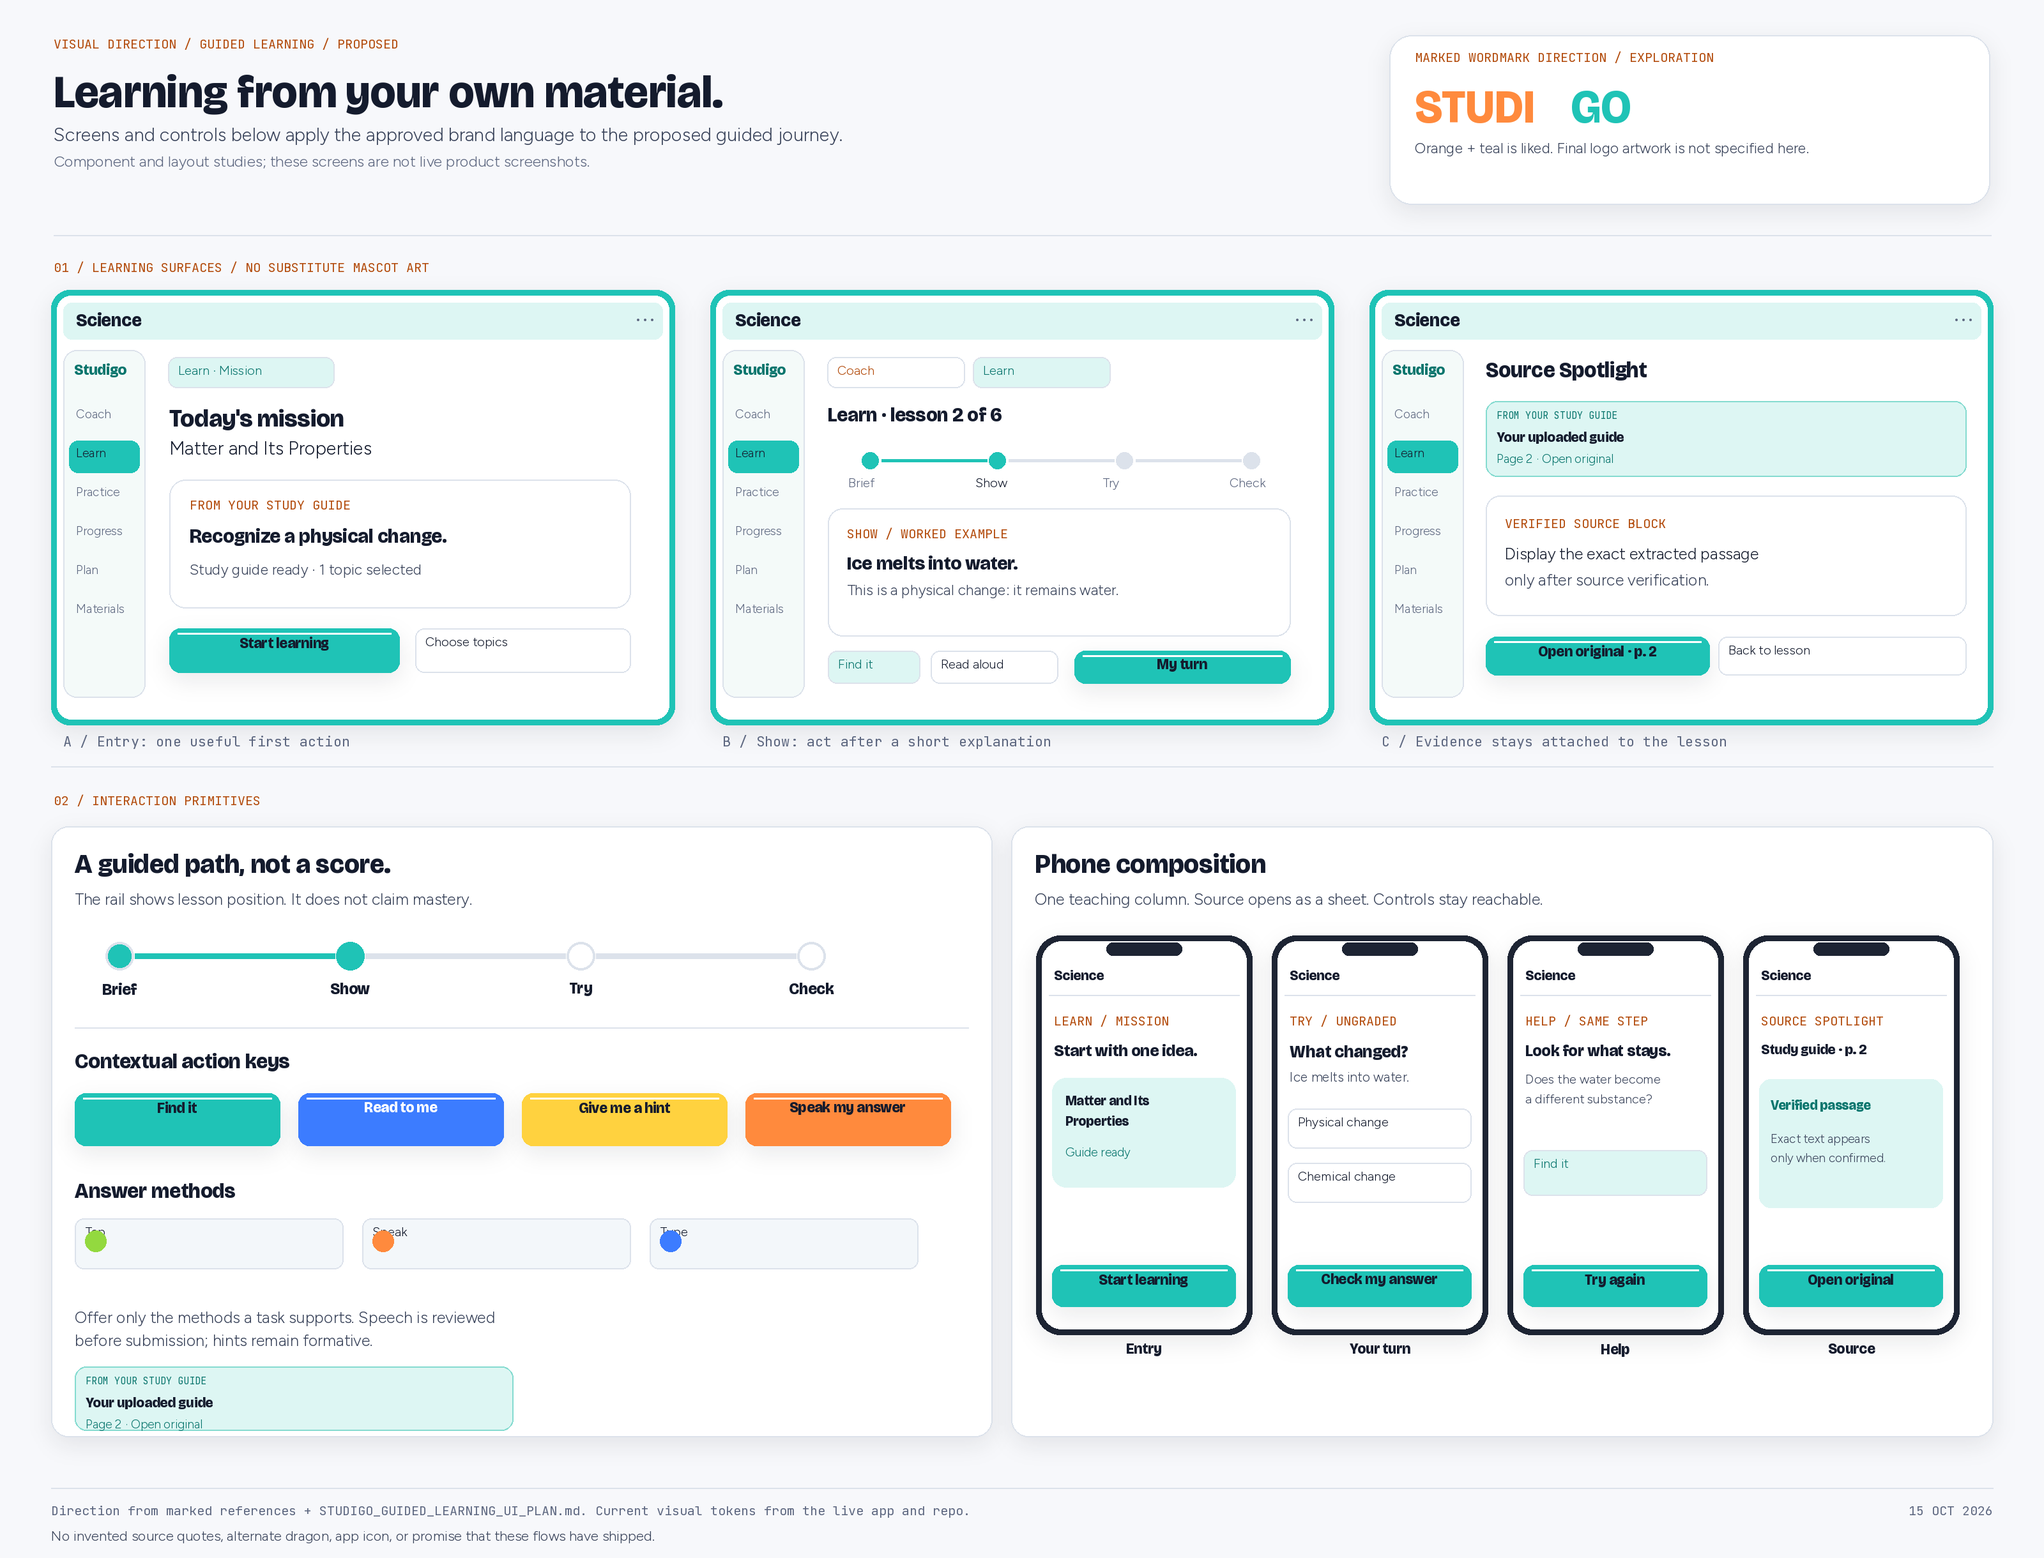
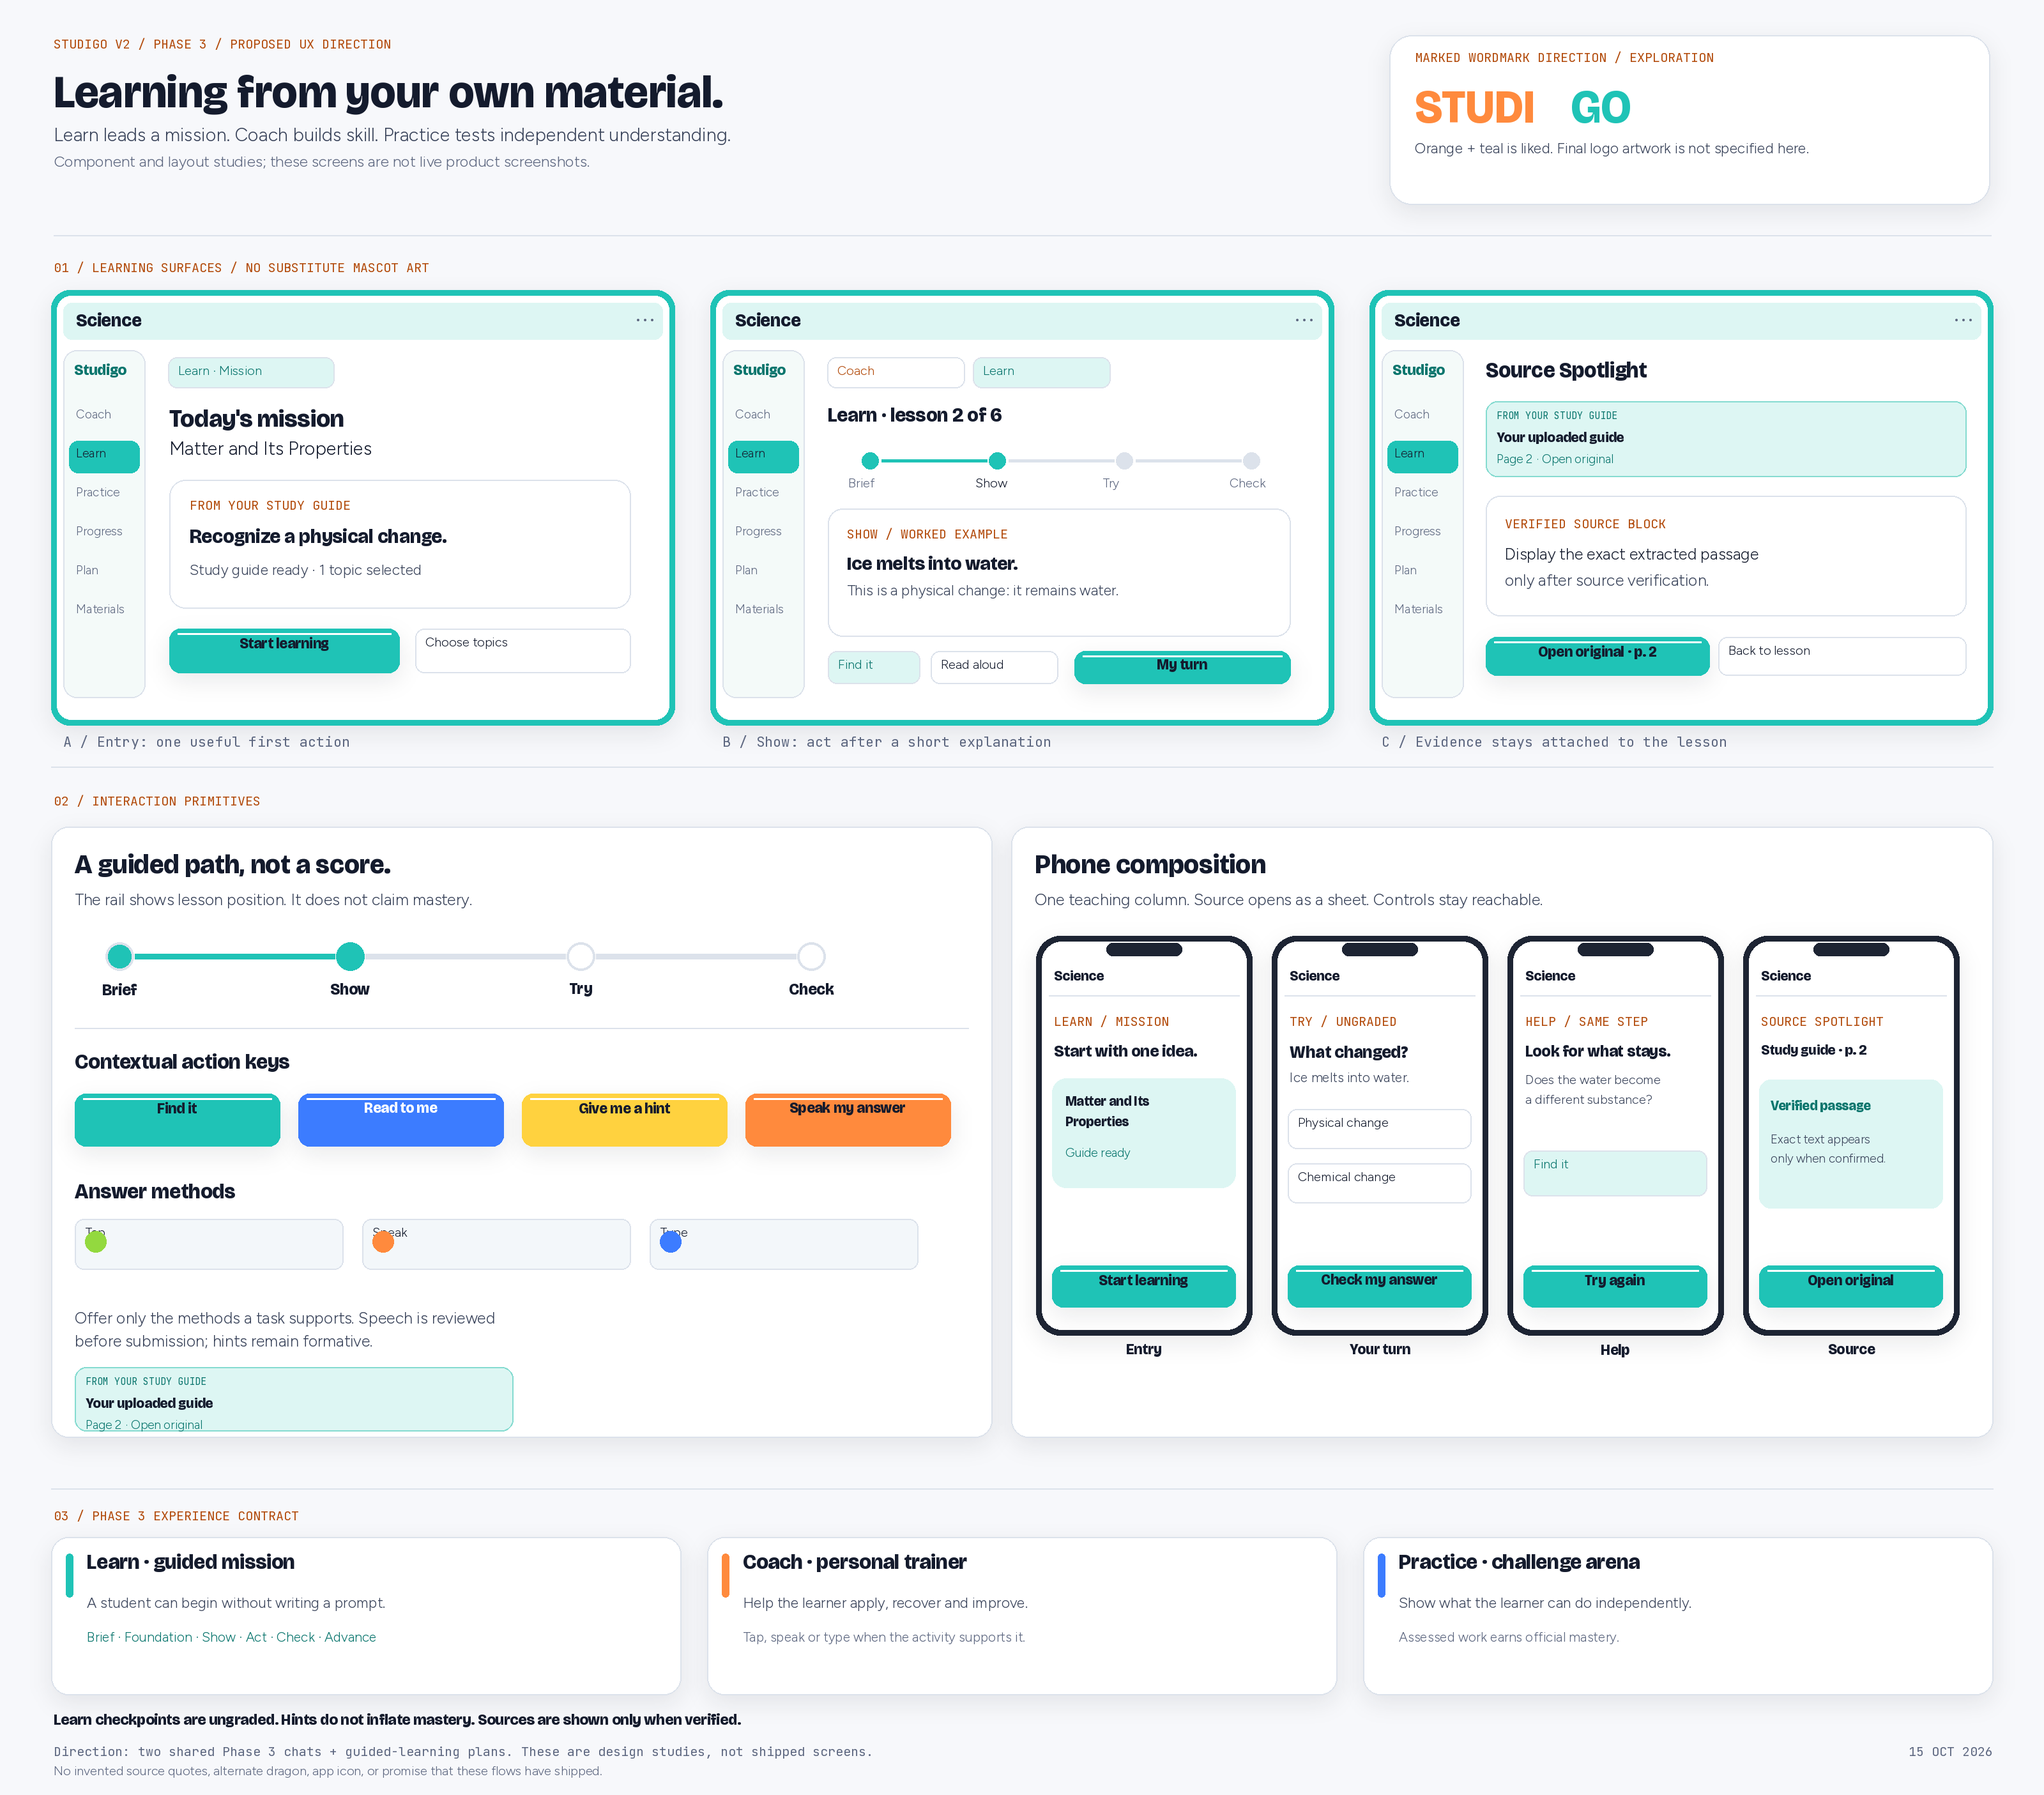
docs: align guided learning board to Studigo V2 Phase 3

diff --git a/docs/brand/README.md b/docs/brand/README.md
@@ -6,8 +6,10 @@
 
 Use the [design system](../DESIGN_SYSTEM.md) for exact tokens, behavior, accessibility, responsive rules, and implementation guidance. The board contains illustrative component specimens, not pixel-perfect product screenshots. The dimensional shells, keys, and readouts are visual material studies, not manufactured hardware or shipped product assets. Their treatment follows the documented tactile material language; the exact token labels and canonical mascot asset are source-backed.
 
-## Guided learning application
+## Studigo V2 Phase 3 application
 
-[Guided learning brand application](./STUDIGO_GUIDED_LEARNING_BRAND_APPLICATION.png) shows proposed desktop and phone compositions for the planned learning journey. The screens are layout studies informed by the marked references and the guided learning UI plan. They are not shipped product screenshots. The orange and teal wordmark is an exploration, not an approved replacement logo. Source blocks intentionally use placeholders until an actual passage can be verified.
+[Guided learning brand application](./STUDIGO_GUIDED_LEARNING_BRAND_APPLICATION.png) applies that visual language to the proposed Phase 3 UX redesign. Learn is a guided mission for unfamiliar material, Coach helps apply and recover, and Practice tests independent understanding. The board illustrates Mission start/resume, interactive lesson steps, Source Spotlight, contextual tap/speech/type actions, and phone composition. Learn checkpoints are ungraded; assisted actions do not earn official mastery. Speech requires transcription review, and a source passage appears only after verification.
 
-The canonical orange scholar assets remain in `docs/brand/mascot/` and `apps/web/public/mascot/`. New guided learning flows still require product design and acceptance work.
+This sheet is a layout study, not shipped product screenshots. The orange and teal wordmark is an exploration, not an approved replacement logo. Its content follows the Guided Learning Experience and UI/UX plans, which define GL01–GL10 and UX01–UX10 across four delivery waves. The UI examples are not evidence that those deliverables have shipped.
+
+The canonical orange scholar assets remain in `docs/brand/mascot/` and `apps/web/public/mascot/`. Phase 3 product implementation and acceptance remain separate work.
